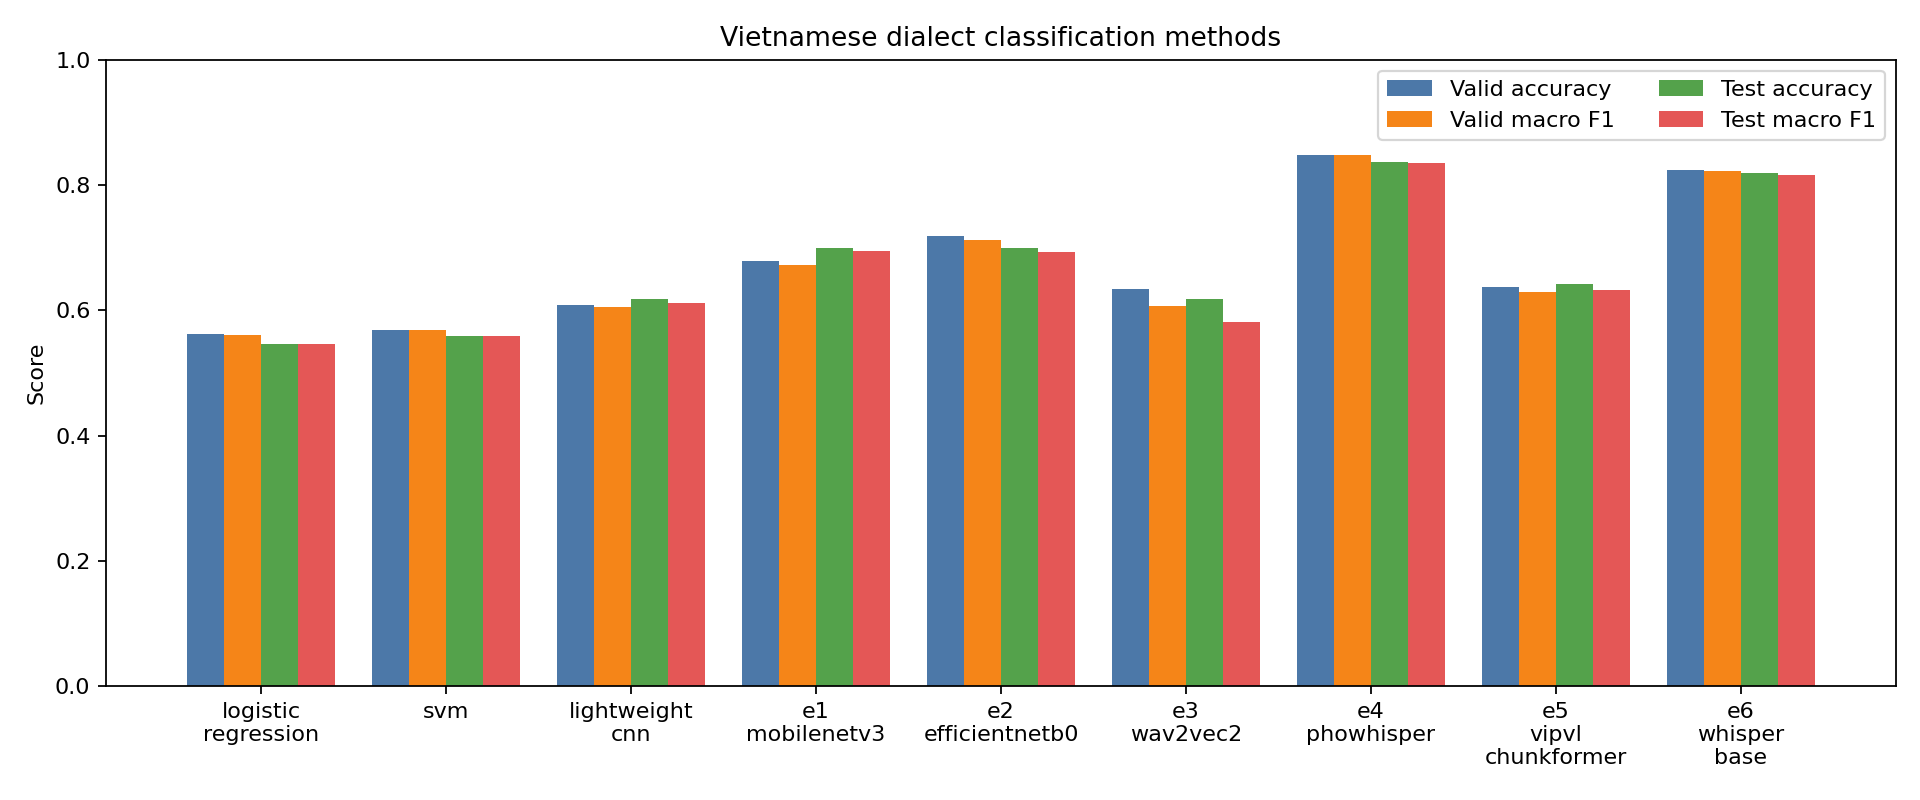
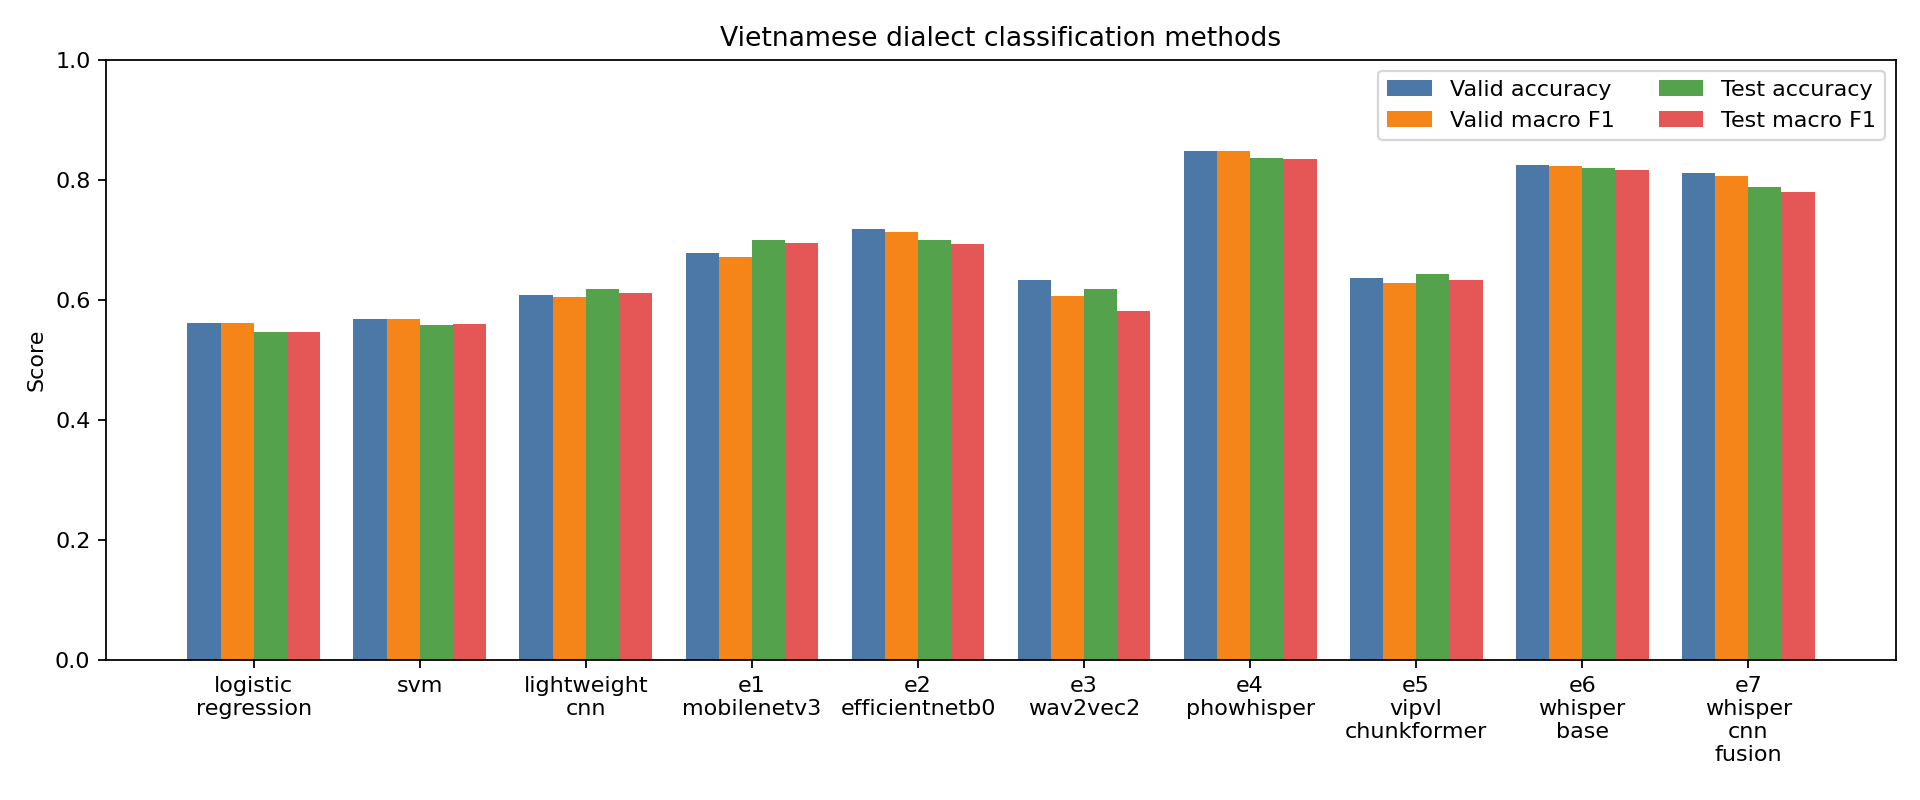
Record Phase 10 E7 concat run artifacts
Add the generated E7 metrics, confusion matrices, report, and refreshed method comparison figures from the current concat run. Keep generated artifacts separate from source changes.

diff --git a/outputs/reports/phase10_whisper_cnn_fusion_report.md b/outputs/reports/phase10_whisper_cnn_fusion_report.md
@@ -1,0 +1,26 @@
+# Phase 10 PhoWhisper + CNN Fusion Report
+
+This experiment combines a frozen PhoWhisper encoder branch with a frozen trained E2 EfficientNetB0-style log-Mel branch. Only the projection, fusion, and classification head are trained. The decoder is not used, and no ASR transcript is generated.
+
+| Split | Accuracy | Macro F1 | Central Recall | Central F1 | Loss |
+| --- | ---: | ---: | ---: | ---: | ---: |
+| train | 0.8991 | 0.8960 | 0.7939 | 0.8479 | 0.2925 |
+| valid | 0.8121 | 0.8072 | 0.6427 | 0.7154 | 0.4858 |
+| test | 0.7874 | 0.7802 | 0.5811 | 0.6659 | 0.5291 |
+
+Best epoch by validation macro F1: 5.
+Training device: `mps`.
+Fusion type: `concat`.
+PhoWhisper encoder trainable parameters: 0.
+EfficientNet local encoder trainable parameters: 0.
+EfficientNet checkpoint: `outputs/models/e2_efficientnetb0_logmel.pt`.
+Checkpoint: `outputs/models/e7_whisper_cnn_fusion.pt`.
+
+## Central Dialect Focus
+
+- Test Central recall: 0.5811.
+- Test Central F1: 0.6659.
+- Central -> Northern errors: 85.
+- Central -> Southern errors: 119.
+
+The model predicts only the three dataset-defined regional dialect labels. It does not infer hometown, identity, ethnicity, or personal background.
